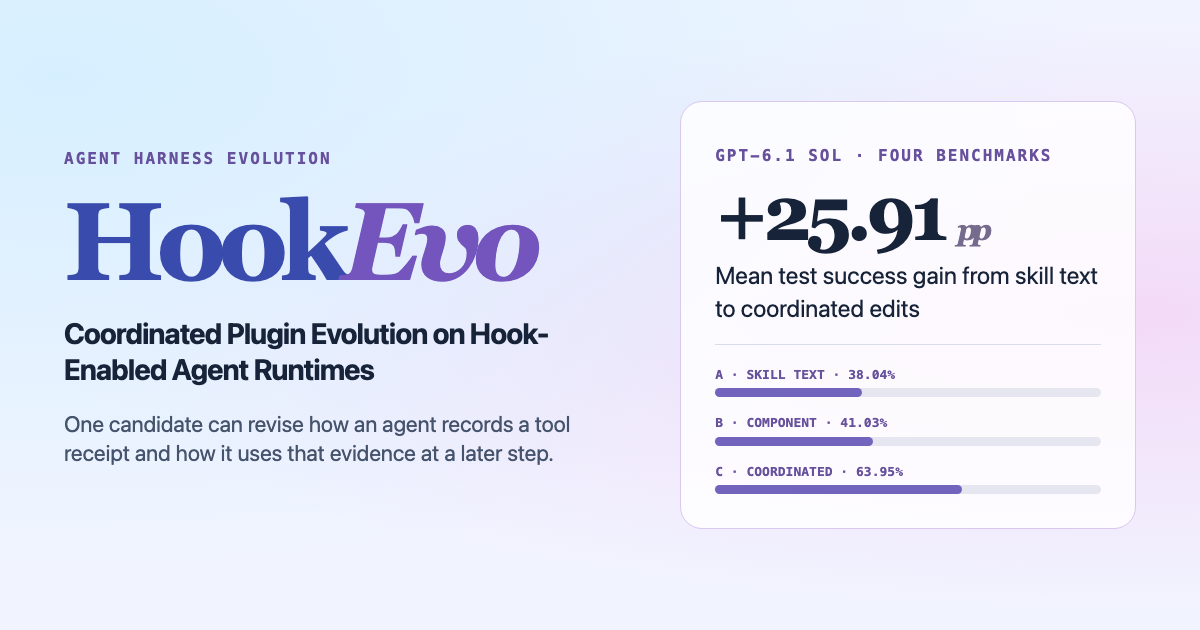
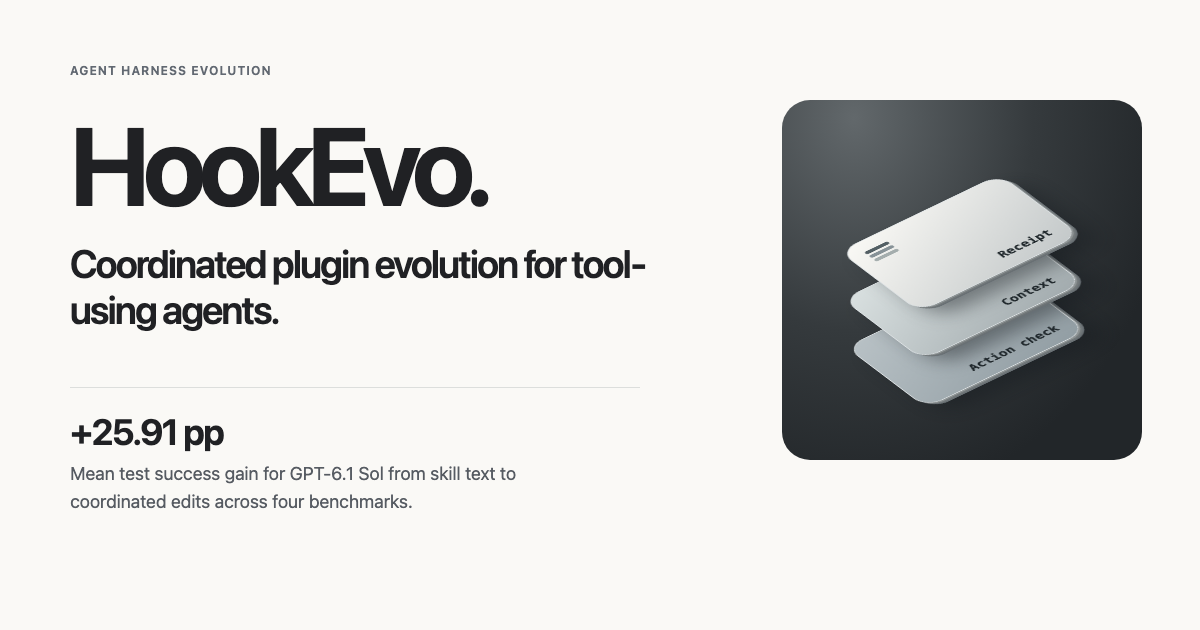
Redesign HookEvo with a graphite visual system and interactive runtime hook exhibit

diff --git a/website/style.css b/website/style.css
@@ -1,5 +1,19 @@
-:root{--ink:#162036;--muted:#4d5c72;--border:#dbe1ed;--violet:#6345ba;--mono:"IBM Plex Mono",ui-monospace,monospace;color:var(--ink);font:17px/1.6 Inter,-apple-system,BlinkMacSystemFont,"Segoe UI",sans-serif;background:#fbfcff}*{box-sizing:border-box}body{margin:0}html{scroll-padding-top:84px}.wrap,.bar{width:min(1120px,90%);margin:auto}header{position:sticky;top:0;background:#f9fafff5;border-bottom:1px solid var(--border);z-index:3}.bar,nav,.actions,footer .wrap{display:flex;align-items:center}.bar,footer .wrap{justify-content:space-between}.bar{min-height:68px}.logo,h1,h2,.metric,.stats b{font-family:Georgia,"Times New Roman",serif}.logo{font-weight:bold;font-size:27px;letter-spacing:-1.6px}.logo i{color:var(--violet)}a{color:#53429d;text-decoration:none}a:hover{text-decoration:underline;text-underline-offset:4px}a:focus-visible,summary:focus-visible{outline:3px solid #544ae9;outline-offset:3px}nav,.actions,.eyebrow,.tag,figcaption{font-family:var(--mono)}nav{gap:24px;font-size:13px}nav a,.logo{color:var(--ink)}.wash{background:radial-gradient(ellipse at 16% 10%,#dbf1ff,transparent 56%),radial-gradient(ellipse at 84% 24%,#f8e4f6,transparent 56%),#f1f3fc;border-bottom:1px solid var(--border)}.hero{display:grid;grid-template-columns:1.7fr 1fr;gap:7%;align-items:center;padding-block:86px}.eyebrow,.tag{text-transform:uppercase;font-size:12px;font-weight:700;letter-spacing:.11em;color:var(--violet)}h1{font-size:clamp(78px,8.5vw,134px);letter-spacing:-.075em;line-height:.98;margin:14px 0 22px;background:linear-gradient(110deg,#157cca,#6147cc 64%,#a841a2);background-clip:text;color:transparent}h1 i{font-weight:500}.title{font-size:clamp(22px,2.2vw,31px);line-height:1.24;font-weight:600;letter-spacing:-.035em;margin:0}.lead,.intro,section>p,article p,aside p{color:var(--muted)}.actions{gap:9px;flex-wrap:wrap;margin-top:25px}.actions a{font-size:13px;font-weight:600;color:var(--ink);padding:10px 16px;border:1px solid var(--border);border-radius:24px;background:white}.actions .primary{background:#6950b8;color:white;border-color:transparent}.actions .dark{background:#172137;color:white;border-color:transparent}aside{padding:30px;border:1px solid #d8c8f0;border-radius:20px;background-color:#ffffffda;background-image:linear-gradient(#7669960a 1px,transparent 1px),linear-gradient(90deg,#7669960a 1px,transparent 1px);background-size:26px 26px;box-shadow:0 16px 45px #50367b0e}.metric{font-size:clamp(50px,5.4vw,82px);line-height:1.15;letter-spacing:-.065em;margin-top:20px}.metric small{color:#77688c;font-size:.4em}.stats,.steps{display:grid}.stats{grid-template-columns:repeat(3,1fr);gap:8px;border-top:1px solid var(--border);padding-top:14px;font:11px/1.4 var(--mono)}.stats b{display:block;color:var(--violet);font-size:27px}section{padding-block:50px;border-bottom:1px solid var(--border)}h2{font-size:clamp(34px,4vw,53px);line-height:1.12;letter-spacing:-.045em;margin:8px 0 16px}.intro{max-width:85ch}figure,.table,pre{margin:25px 0;background:white;border:1px solid var(--border);border-radius:14px;overflow:hidden}figure{padding:18px}figure img{width:100%;display:block}figcaption{font-size:12px;color:var(--muted);padding-top:12px}.steps{grid-template-columns:repeat(4,1fr);gap:23px}.steps h3{margin:12px 0 4px}.steps p{margin:0;font-size:15px}.table{overflow-x:auto}table{width:100%;border-collapse:collapse;text-align:left;font-variant-numeric:tabular-nums}td,th{padding:13px 18px;white-space:nowrap;border-bottom:1px solid var(--border)}thead{background:#f3f2fb;font:600 13px var(--mono)}tbody tr:last-child>*{border:0}strong{color:var(--violet)}summary{cursor:pointer;font-weight:600;color:var(--violet)}pre{background:#182337;color:#e2eafa;padding:20px;overflow:auto;font:14px/1.8 var(--mono)}footer .wrap{padding-block:23px}@media(max-width:780px){.hero{grid-template-columns:1fr;padding-block:40px;gap:30px}.steps{grid-template-columns:1fr 1fr}.bar{align-items:flex-start;flex-direction:column;gap:4px;padding:7px 0}nav{gap:14px;max-width:100%;overflow-x:auto;white-space:nowrap;padding-bottom:5px}aside{padding:22px}.metric{margin:5px 0}.wrap,.bar{width:92%}section{padding-block:32px}.table th,.table td{padding:10px 12px}}@media(max-width:440px){.steps{grid-template-columns:1fr;gap:8px}nav{font-size:12px;gap:11px}}
-
-.switcher{display:flex;flex-wrap:wrap;gap:8px;margin:24px 0 15px}.switcher button{font:600 14px var(--mono);cursor:pointer;border-radius:30px;padding:10px 18px;border:1px solid var(--border);background:white;color:var(--ink)}.switcher button[aria-pressed=true]{background:#292746;color:white;border-color:#292746}.switcher button:focus-visible{outline:3px solid var(--violet);outline-offset:3px}.exhibit{display:grid;grid-template-columns:minmax(220px,1fr) minmax(0,2fr);border:1px solid var(--border);border-radius:18px;overflow:hidden;background:white;margin-block:14px}.explain{padding:25px;background:linear-gradient(140deg,#f3eeff,#f3f9ff)}.explain h3{font:600 28px/1.1 Georgia,serif;letter-spacing:-.035em;margin:10px 0}.explain p{font-size:15px}.explain a{display:block;width:fit-content;margin-top:8px;font:600 13px/1.5 var(--mono)}.plate{display:grid;place-items:center;padding:14px}.plate img{width:100%;height:auto}.exhibit[hidden],.switcher[hidden]{display:none}@media(max-width:780px){.exhibit{grid-template-columns:1fr}.switcher button{font-size:12px;padding:8px 10px}}
-
-#main-board .ours{background:#eeeafa;color:#48298b;font-weight:700}#main-board th button{font:inherit;border:0;background:transparent;color:inherit;cursor:pointer;padding:3px 0}#main-board th button::after{content:' ↕';color:#796c91}#main-board [aria-sort=descending] button::after{content:' ↓'}#main-board [aria-sort=ascending] button::after{content:' ↑'}#main-board th button:focus-visible{outline:2px solid var(--violet)}.board-note{font-size:14px;max-width:95ch}#method figcaption b{color:var(--ink)}nav{overflow-x:auto;white-space:nowrap;max-width:100%}
+:root{
+  color-scheme:light;
+  --paper:#faf9f6; --ink:#202124; --muted:#565b62; --line:#dcdedc; --link:#005eb8;
+  --mono:ui-monospace,SFMono-Regular,Menlo,monospace;
+  font:17px/1.52 -apple-system,BlinkMacSystemFont,"Helvetica Neue",Arial,sans-serif;
+  color:var(--ink);background:var(--paper)
+}
+*{box-sizing:border-box}body{margin:0}html{scroll-padding-top:76px}a{color:var(--link);text-decoration:none}a:hover{text-decoration:underline}a:focus-visible,button:focus-visible,summary:focus-visible,select:focus-visible{outline:3px solid #2986d7;outline-offset:3px}
+.wrap,.bar{width:min(1080px,90%);margin:auto}header{position:sticky;top:0;z-index:8;background:#faf9f6ef;backdrop-filter:blur(18px);border-bottom:1px solid var(--line)}.bar,nav,footer .wrap,.actions{display:flex;align-items:center}.bar,footer .wrap{justify-content:space-between}.bar{min-height:59px}.logo{font-weight:720;font-size:23px;letter-spacing:-1.6px;color:var(--ink)}.logo i{font-style:normal}nav{gap:23px;font-size:13px}nav a{color:var(--ink)}.hero{text-align:center;padding:58px 0 38px}.hero h1,.replay h1{margin:0;font-size:clamp(68px,8vw,109px);font-weight:670;letter-spacing:-.06em;line-height:1.04}.hero h1 span{color:#828b92}.title{font-weight:620;font-size:clamp(23px,3vw,39px);letter-spacing:-.055em;line-height:1.15;margin:14px auto}.lead,.intro,.board-note,article p,.note{color:var(--muted)}.lead{max-width:630px;margin:10px auto}.actions{justify-content:center;flex-wrap:wrap;gap:22px;margin-top:24px;font-size:14px;font-weight:580}.primary,.actions .dark{background:var(--ink);color:white;padding:10px 19px;border-radius:30px}
+.instrument{position:relative;display:grid;grid-template-columns:1fr 1.08fr;min-height:330px;overflow:hidden;border-radius:28px;background:radial-gradient(ellipse at 20% 5%,#62686b,#353a3d 44%,#222629 80%);color:#fbfbf9}
+.stack-zone{display:grid;place-items:center;min-height:290px}.stack{width:240px;height:210px;position:relative;transform:rotate(-4deg)}.tile{position:absolute;width:200px;height:136px;left:20px;border-radius:21px;transform:rotateX(54deg) rotateZ(-34deg);border:1px solid #dbe0e2;box-shadow:1px 2px #909697,2px 4px #73797b,3px 6px #697074,9px 23px 28px #15191d70;display:flex;align-items:flex-end;padding:14px 18px;font:600 15px var(--mono);color:#20282c;transition:transform .35s,background .35s}
+.t1{top:0;background:linear-gradient(150deg,#fbfaf6,#c3c8c9)}.t2{top:48px;background:linear-gradient(150deg,#dae1e1,#a1aaad)}.t3{top:96px;background:linear-gradient(150deg,#b9c2c6,#919da3)}
+.tile span{margin-left:auto}.tile i{position:absolute;top:17px;left:17px;width:29px;height:5px;border-radius:4px;background:#535f64;box-shadow:0 8px #879297,0 16px #a4adad}.instrument[data-stage="1"] .t2,.instrument[data-stage="2"] .t3{transform:translate(-22px,9px) rotateX(54deg) rotateZ(-34deg);background:#d4e7f0}
+.instrument-body{align-self:center;padding:30px 38px 30px 0}.eyebrow{font-weight:650;letter-spacing:.085em;font-size:12px;text-transform:uppercase;color:#626972;margin:0 0 10px}.instrument .eyebrow{color:#b9c2c5}.instrument h2{font-size:clamp(28px,3vw,39px);margin:0 0 10px}.instrument a{color:#a8d9ff;font-size:13px}.instrument-body p:not(.eyebrow){margin:10px 0;color:#e0e4e5;font-size:15px}.hook-select,.switcher{display:flex;flex-wrap:wrap;gap:3px}.hook-select button,.switcher button{font:inherit;font-size:13px;border:0;border-radius:8px;padding:6px 12px;cursor:pointer}.hook-select button{background:#3e4446;color:white}.hook-select button[aria-pressed=true]{background:#eee;color:#292d2f}#hook-detail{min-height:103px}.instrument pre{font-size:12px;color:#d0e0ea;background:#141819;padding:10px 13px;border-radius:8px;white-space:pre-wrap;overflow-wrap:anywhere;margin:8px 0}
+.findings{display:grid;grid-template-columns:1.4fr 1fr 1fr;padding:35px 0 40px;gap:35px}.findings div+div{border-left:1px solid var(--line);padding-left:32px}.findings b,.pair-stats b{font-size:38px;letter-spacing:-.065em;font-weight:620;line-height:1.1}.findings small{font-size:20px}.findings p{color:var(--muted);font-size:14px;max-width:31ch;margin:7px 0 0}
+section{border-top:1px solid var(--line);padding:62px 0}h2,h3{letter-spacing:-.045em;line-height:1.1}h2{font-size:clamp(32px,4vw,52px);font-weight:630;margin:8px 0 16px}.intro{max-width:78ch}.table,figure,.exhibit,.replay details{border:1px solid var(--line);background:#fff;border-radius:18px}.table{overflow:auto;margin:20px 0}table{border-collapse:collapse;width:100%;font-variant-numeric:tabular-nums;text-align:left}td,th{padding:12px 16px;white-space:nowrap;border-bottom:1px solid #e6e7e6}thead{background:#eeefed;font-size:13px}tbody tr:last-child>*{border:0}.ours{background:#eef4f8;color:#1f4052;font-weight:650}#main-board button{font:inherit;border:0;background:transparent;cursor:pointer;color:inherit}#main-board button:after{content:' ↕'}#main-board [aria-sort=descending] button:after{content:' ↓'}#main-board [aria-sort=ascending] button:after{content:' ↑'}.board-note,figcaption{font-size:14px;color:var(--muted)}figure{margin:20px 0;padding:20px}figure img,.plate img{width:100%;display:block}figcaption{padding-top:12px}figcaption b{color:var(--ink)}.steps{display:grid;grid-template-columns:repeat(4,1fr);gap:22px}.steps h3{font-size:20px;margin:12px 0 5px}.steps p,.explain p{font-size:15px;margin:0}.switcher{margin:22px 0 14px}.switcher button{background:#e9eae7;color:var(--ink)}.switcher button[aria-pressed=true]{background:#272b2e;color:white}.exhibit{display:grid;grid-template-columns:1fr 2fr;overflow:hidden}.explain{padding:26px;background:#f0f0ec}.explain h3{font-size:28px;margin:12px 0}.explain a{display:block;font-size:14px;margin-top:10px}.plate{padding:15px;align-self:center}summary{color:var(--link);cursor:pointer;font-weight:550}pre{font:14px/1.6 var(--mono);background:#262a2d;color:#f2f3f1;padding:20px;border-radius:14px;overflow:auto}section .actions{justify-content:flex-start}footer{border-top:1px solid var(--line)}footer .wrap{padding:23px 0}
+.replay{padding:50px 0}.replay h1{font-size:clamp(50px,6vw,75px)}.replay h2{font-size:36px}.pair-stats{display:flex;flex-wrap:wrap;gap:42px;padding:20px 0;border-block:1px solid var(--line)}.pair-stats b{display:block}.replay article{padding:16px 0}.replay details{padding:20px}.cases{max-height:360px;overflow:auto}.cases td,.cases th{font-size:14px}.cases td:first-child{white-space:normal;overflow-wrap:anywhere}.note{font-size:14px}.replay select{font:inherit}.replay .eyebrow{margin-top:18px}[hidden]{display:none!important}
+@media(max-width:750px){.wrap,.bar{width:92%}.bar{gap:12px;flex-wrap:wrap;padding:9px 0}nav{gap:13px;flex-wrap:wrap;font-size:12px}.hero{padding:40px 0 26px}.hero .lead{font-size:15px}.actions{gap:12px}.instrument{grid-template-columns:1fr}.stack-zone{min-height:170px;height:170px}.stack{transform:scale(.64) rotate(-4deg);transform-origin:center 38%}.instrument-body{padding:16px 22px 22px}.findings{gap:12px;padding:22px 0}.findings div+div{padding-left:12px}.findings b{font-size:27px}.findings p{font-size:12px}.steps{grid-template-columns:1fr 1fr}.exhibit{grid-template-columns:1fr}section{padding:36px 0}table td,table th{padding:10px}.pair-stats{gap:20px}.cases td:first-child{min-width:125px}figure{padding:12px}}
+@media(prefers-reduced-motion:reduce){.tile{transition:none}}

diff --git a/website/index.html b/website/index.html
@@ -10,7 +10,7 @@
 <meta property="og:url" content="https://huangshengzebluesky.github.io/dsh-harness-evolution/">
 <meta property="og:description" content="Explore how a frozen agent learns new procedures through coordinated edits to its runtime plugins. Inspect four released checkpoints and their evaluation records.">
 <meta property="og:image" content="https://huangshengzebluesky.github.io/dsh-harness-evolution/cover.png">
-<meta property="og:image:alt" content="HookEvo. Mean test success for GPT-6.1 Sol across edit scopes: 38.04%, 41.03%, and 63.95%.">
+<meta property="og:image:alt" content="HookEvo. Coordinated plugin evolution for tool-using agents. Receipt, context and action checks share episode state.">
 <meta name="twitter:card" content="summary_large_image">
 <link rel="stylesheet" href="style.css">
 </head>
@@ -18,13 +18,22 @@
 <header><div class="bar"><a class="logo" href="#top">Hook<i>Evo</i></a>
 <nav aria-label="Sections"><a href="#method">Method</a><a href="#leaderboard">Leaderboard</a><a href="#scope">Edit scope</a><a href="#reproduce">Reproduce</a><a href="https://github.com/HuangShengZeBlueSky/dsh-harness-evolution">GitHub ↗</a></nav></div></header>
 <main id="top">
-<div class="wash"><div class="hero wrap">
-<div><p class="eyebrow">Agent harness evolution</p><h1>Hook<i>Evo</i></h1>
-<p class="title">A Framework for Coordinated Plugin Evolution on Hook-Enabled Agent Runtimes</p>
-<p class="lead">A tool receipt can change what an agent remembers and what it does next. HookEvo evolves the plugins that connect those steps while the executor stays frozen.</p>
-<div class="actions"><a class="primary" href="#leaderboard">View leaderboard ↓</a><a href="replay.html">Replay a search round →</a><a class="dark" href="https://github.com/HuangShengZeBlueSky/dsh-harness-evolution">Code repository ↗</a><a href="#checkpoints">Explore artifacts</a></div></div>
-<aside><span class="tag">Edit-scope result</span><div class="metric">+25.91<small> pp</small></div><p>Gain in mean test success for GPT-6.1 Sol when moving from skill text to coordinated plugin edits.</p><div class="stats"><div><b>4</b>benchmarks</div><div><b>3</b>improvers</div><div><b>3</b>edit scopes</div></div></aside>
+<div class="hero wrap">
+<h1>HookEvo<span>.</span></h1>
+<p class="title">Coordinated plugin evolution for tool-using agents.</p>
+<p class="lead">A frozen agent can learn a new procedure when its plugins change together. Follow a tool receipt from observation to the next action.</p>
+<div class="actions"><a class="primary" href="replay.html">Replay an experiment</a><a href="#leaderboard">View results ↗</a><a href="https://github.com/HuangShengZeBlueSky/dsh-harness-evolution">Get the code ↗</a></div>
+</div>
+<div class="instrument wrap" id="instrument">
+<div class="stack-zone" aria-hidden="true"><div class="stack">
+<div class="tile t3"><span>Action check</span></div>
+<div class="tile t2"><span>Context</span></div>
+<div class="tile t1"><span>Receipt</span><i></i></div>
 </div></div>
+<div class="instrument-body"><p class="eyebrow">ALFWorld / action-hint.mjs</p><h2>One state, three hooks.</h2><div class="hook-select" aria-label="Explore a hook" hidden></div>
+<div id="hook-detail" aria-live="polite"><p id="hook-copy">A successful pickup updates the object held in episode state.</p><pre><code id="hook-code">if (take) { held = take[1]; known.delete(held); }</code></pre></div>
+<a href="https://github.com/HuangShengZeBlueSky/dsh-harness-evolution/blob/main/artifacts/alfworld/plugins/action-hint.mjs">Inspect the plugin ↗</a></div></div>
+<div class="findings wrap"><div><b>+25.91 <small>pp</small></b><p>Mean success gain for GPT-6.1 Sol from skill text to coordinated edits.</p></div><div><b>4</b><p>Benchmarks evaluated with frozen Qwen3-4B.</p></div><div><b>3 × 3</b><p>Improvers and edit scopes compared.</p></div></div>
 <section class="wrap" id="leaderboard"><p class="eyebrow">Main leaderboard</p><h2>How do the harnesses compare?</h2><p class="intro">HookEvo leads the reported Qwen3-4B-family comparisons on all four benchmarks. Against our local Life-Harness rerun, the gains range from 4.86 percentage points on OSBench to 7.64 on ALFWorld.</p><div class="table"><table id="main-board"><thead><tr><th scope="col">Method</th><th scope="col">ALFWorld</th><th scope="col">DBBench</th><th scope="col">WebShop</th><th scope="col">OSBench</th><th scope="col">Evaluation</th></tr></thead><tbody>
 <tr class="ours"><th scope="row">HookEvo (Sol, scope C)</th><td>95.41 ± 0.00</td><td>70.56 ± 0.38</td><td>48.17 ± 0.29</td><td>41.67 ± 1.84</td><td>Local</td></tr>
 <tr><th scope="row">Life-Harness (local)</th><td>87.77 ± 1.91</td><td>64.11 ± 0.38</td><td>41.33 ± 0.29</td><td>36.81 ± 0.00</td><td>Local</td></tr>
@@ -72,6 +81,7 @@ python -m pip install -e evolution
 python evolution/scripts/smoke.py ./runs/smoke</code></pre>
 <p>The reproduction guide lists the external assets and model access for each benchmark. Choose a frozen profile to evaluate a released checkpoint, or an A/B/C profile to run a new search.</p><div class="actions"><a class="dark" href="https://github.com/HuangShengZeBlueSky/dsh-harness-evolution/blob/main/REPRODUCING.md">Reproduction guide ↗</a><a href="https://github.com/HuangShengZeBlueSky/dsh-harness-evolution/blob/main/CITATION.cff">Cite the code ↗</a><a href="https://github.com/HuangShengZeBlueSky/dsh-harness-evolution/issues">Research questions ↗</a></div></section>
 </main><footer><div class="wrap"><a class="logo" href="#top">Hook<i>Evo</i></a><a href="https://github.com/HuangShengZeBlueSky/dsh-harness-evolution">GitHub ↗</a></div></footer>
+<script src="hooks.js"></script>
 <script src="checkpoints.js"></script>
 <script src="leaderboard.js"></script>
 </body></html>

diff --git a/website/replay.html b/website/replay.html
@@ -1,8 +1,6 @@
 <!doctype html>
 <html lang="en"><head><meta charset="utf-8"><meta name="viewport" content="width=device-width,initial-scale=1"><title>Round replay · HookEvo</title><link rel="stylesheet" href="style.css">
-<style>
-.replay{padding:40px 0 70px}.replay h1{font-size:clamp(44px,7vw,82px);margin:12px 0}.replay h2{font-size:34px}.pair-stats{display:flex;gap:clamp(18px,5vw,70px);flex-wrap:wrap;border-block:1px solid var(--border);padding:18px 0}.pair-stats b{display:block;font:600 34px Georgia;color:var(--violet)}.replay article{padding:12px 0}.replay details{background:white;border:1px solid var(--border);border-radius:12px;padding:15px}.replay select{font:inherit}.cases{max-height:350px;overflow:auto}.cases td,.cases th{font-size:14px;padding:8px 12px}.cases td:first-child{white-space:normal;overflow-wrap:anywhere}.replay .status{font:bold 14px var(--mono);color:var(--violet)}.switcher{align-items:center}.replay figure{margin:0}.replay .note{color:var(--muted);font-size:14px}
-</style></head><body><header><div class="bar"><a class="logo" href="./">Hook<i>Evo</i></a><nav><a href="./#method">Method</a><a href="./#leaderboard">Leaderboard</a><a href="alfworld-rounds.json">Replay data ↗</a></nav></div></header>
+</head><body><header><div class="bar"><a class="logo" href="./">Hook<i>Evo</i></a><nav><a href="./#method">Method</a><a href="./#leaderboard">Leaderboard</a><a href="alfworld-rounds.json">Replay data ↗</a></nav></div></header>
 <main class="wrap replay"><p class="eyebrow">ALFWorld · Evolution workbench</p><h1>Round replay</h1><p class="intro">Follow two consecutive decisions from the fixed-pool ALFWorld search. Each comparison uses the same 100 training tasks. The replay uses recorded outcomes and English summaries of the original decision notes.</p>
 <div id="rounds" class="switcher" aria-label="Select a search round"></div><div id="record" hidden>
 <p class="eyebrow">Observed behavior</p><h2 id="title"></h2><p id="observation"></p>

diff --git a/website/hooks.js b/website/hooks.js
@@ -1,0 +1,23 @@
+const hooks = [
+  ['Receipt', 'A successful pickup updates the object held in episode state.',
+    'if (take) { held = take[1]; known.delete(held); }'],
+  ['Context', 'During prompt assembly, guidance includes the held object and a recommended next action.',
+    "const text = guidance(); audit({method_id:name,hook:'system-prompt/assemble',text});"],
+  ['Action', 'Before a tool call, the guard checks whether the agent skipped an available pickup.',
+    "const skippedPickup = !held && recovery?.startsWith('take ' + target + ' ') && action !== recovery;"]
+];
+const selector = document.querySelector('.hook-select');
+for (const [index, [label, copy, code]] of hooks.entries()) {
+  const button = document.createElement('button');
+  button.type = 'button';
+  button.textContent = label;
+  button.setAttribute('aria-pressed', String(index === 0));
+  button.onclick = () => {
+    for (const item of selector.children) item.setAttribute('aria-pressed', String(item === button));
+    document.getElementById('instrument').dataset.stage = String(index);
+    document.getElementById('hook-copy').textContent = copy;
+    document.getElementById('hook-code').textContent = code;
+  };
+  selector.append(button);
+}
+selector.hidden = false;

diff --git a/README.md b/README.md
@@ -1,6 +1,6 @@
 # HookEvo
 
-[![HookEvo paper overview and edit-scope results](website/cover.png)](https://huangshengzebluesky.github.io/dsh-harness-evolution/)
+[![HookEvo: coordinated plugin evolution for tool-using agents](website/cover.png)](https://huangshengzebluesky.github.io/dsh-harness-evolution/)
 
 **A Framework for Coordinated Plugin Evolution on Hook-Enabled Agent Runtimes**
 
